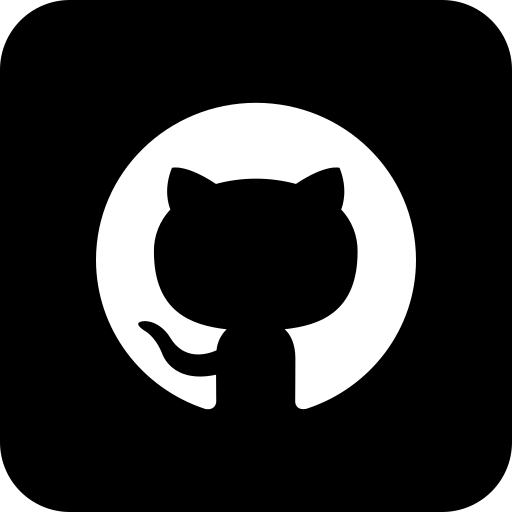
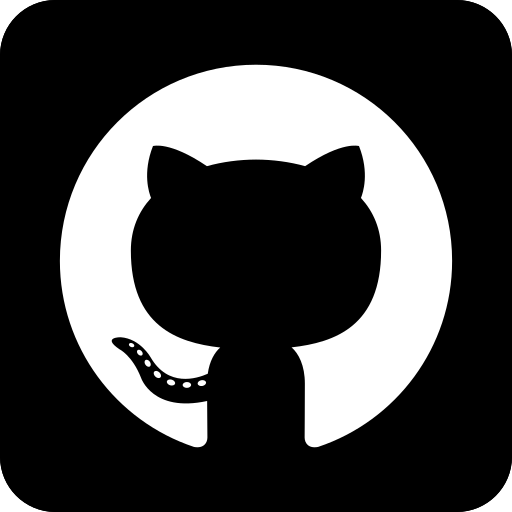
mudando o icone do github

diff --git a/README.md b/README.md
@@ -20,7 +20,7 @@ ___
 
 <div align="center">
 
-  ![Top Langs](https://github-readme-stats.vercel.app/api/top-langs/?username=thiiiimarques&layout=compact&title_color=BFFF00&text_color=fff&bg_color=0d1117&border_color=fff0)
+  ![Top Langs](https://github-readme-stats.vercel.app/api/top-langs/?username=thiiiimarques&layout=normal&title_color=BFFF00&text_color=fff&bg_color=0d1117&border_color=fff0)
 
 </div>
 
@@ -50,7 +50,7 @@ ___
 
   ### Contatos:
 
-  <a href="https://www.linkedin.com/in/tiagomarquesss/"> <img src="src/iconeLinkedin.png" width="50px" height= "50px" alt="Icone do Linkedin"> </a> <a href="tiagomarques2283@hotmail.com"> <img src="src/iconeEmail.png" width="50px" height= "55px" alt="Icone do E-mail"> </a>
+  <a href="https://www.linkedin.com/in/tiagomarquesss/"> <img src="src/iconeLinkedin.png" width="50px" height= "50px" alt="Icone do Linkedin"> </a><a href="tiagomarques2283@hotmail.com"> <img src="src/iconeEmail.png" width="50px" height= "55px" alt="Icone do E-mail"> </a>
 
 </div>
 
